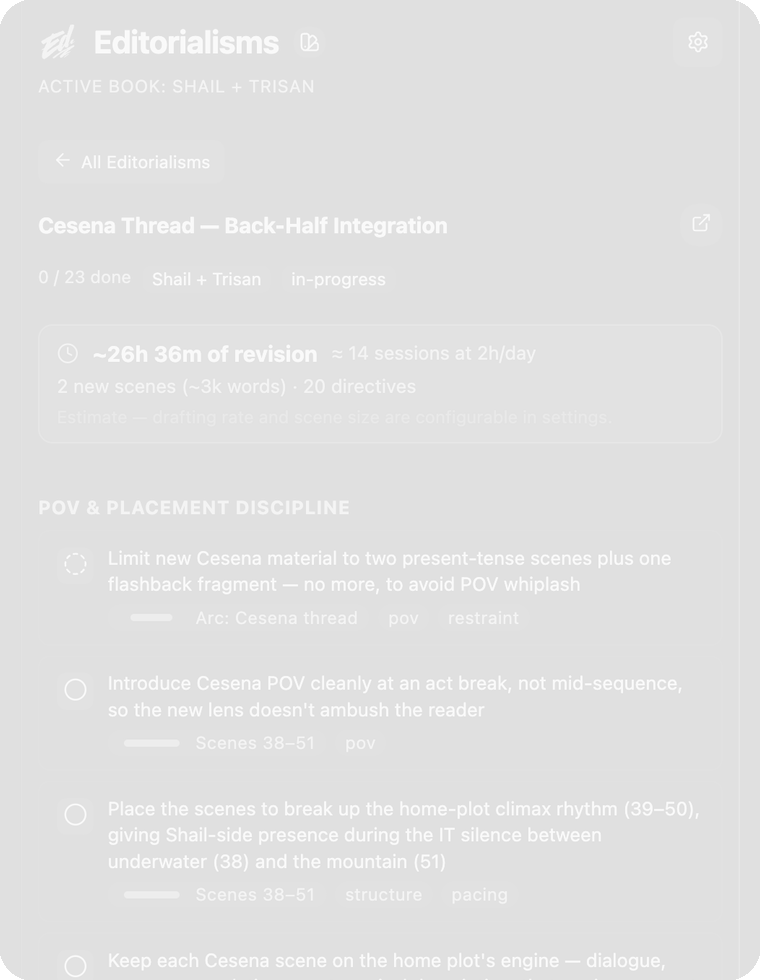
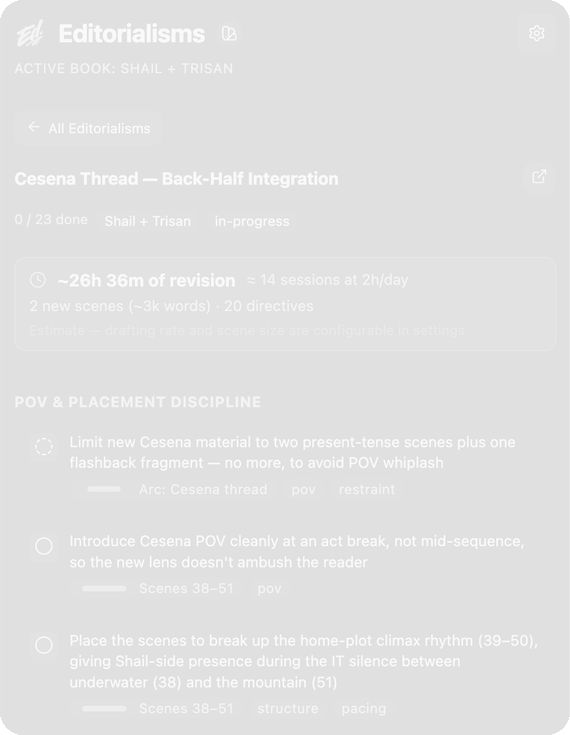
Tune 1.0.8 release image scale

diff --git a/docs/releases/draft-for-release-1.0.8.md b/docs/releases/draft-for-release-1.0.8.md
@@ -44,6 +44,6 @@ Example: save a selected paragraph to the scene's cut file before rewriting it, 
 
 | Editorialisms mode | Right-click cut backup |
 |---|---|
-| <img src="https://raw.githubusercontent.com/wiki/EricRhysTaylor/editorialist/images/release-1-0-8-editorialisms-preview.png" alt="Editorialisms mode in the Ed side panel" width="360"> | <img src="https://raw.githubusercontent.com/wiki/EricRhysTaylor/editorialist/images/release-1-0-8-cut-menu-preview.png" alt="Right-click menu showing backup selection to cut file" width="360"> |
+| <img src="https://raw.githubusercontent.com/wiki/EricRhysTaylor/editorialist/images/release-1-0-8-editorialisms-preview.png" alt="Editorialisms mode in the Ed side panel"> | <img src="https://raw.githubusercontent.com/wiki/EricRhysTaylor/editorialist/images/release-1-0-8-cut-menu-preview.png" alt="Right-click menu showing backup selection to cut file"> |
 
 The wiki has also been refreshed for Radial Timeline integration, manuscript folder scope, import matching, cut-file controls, and settings behavior.